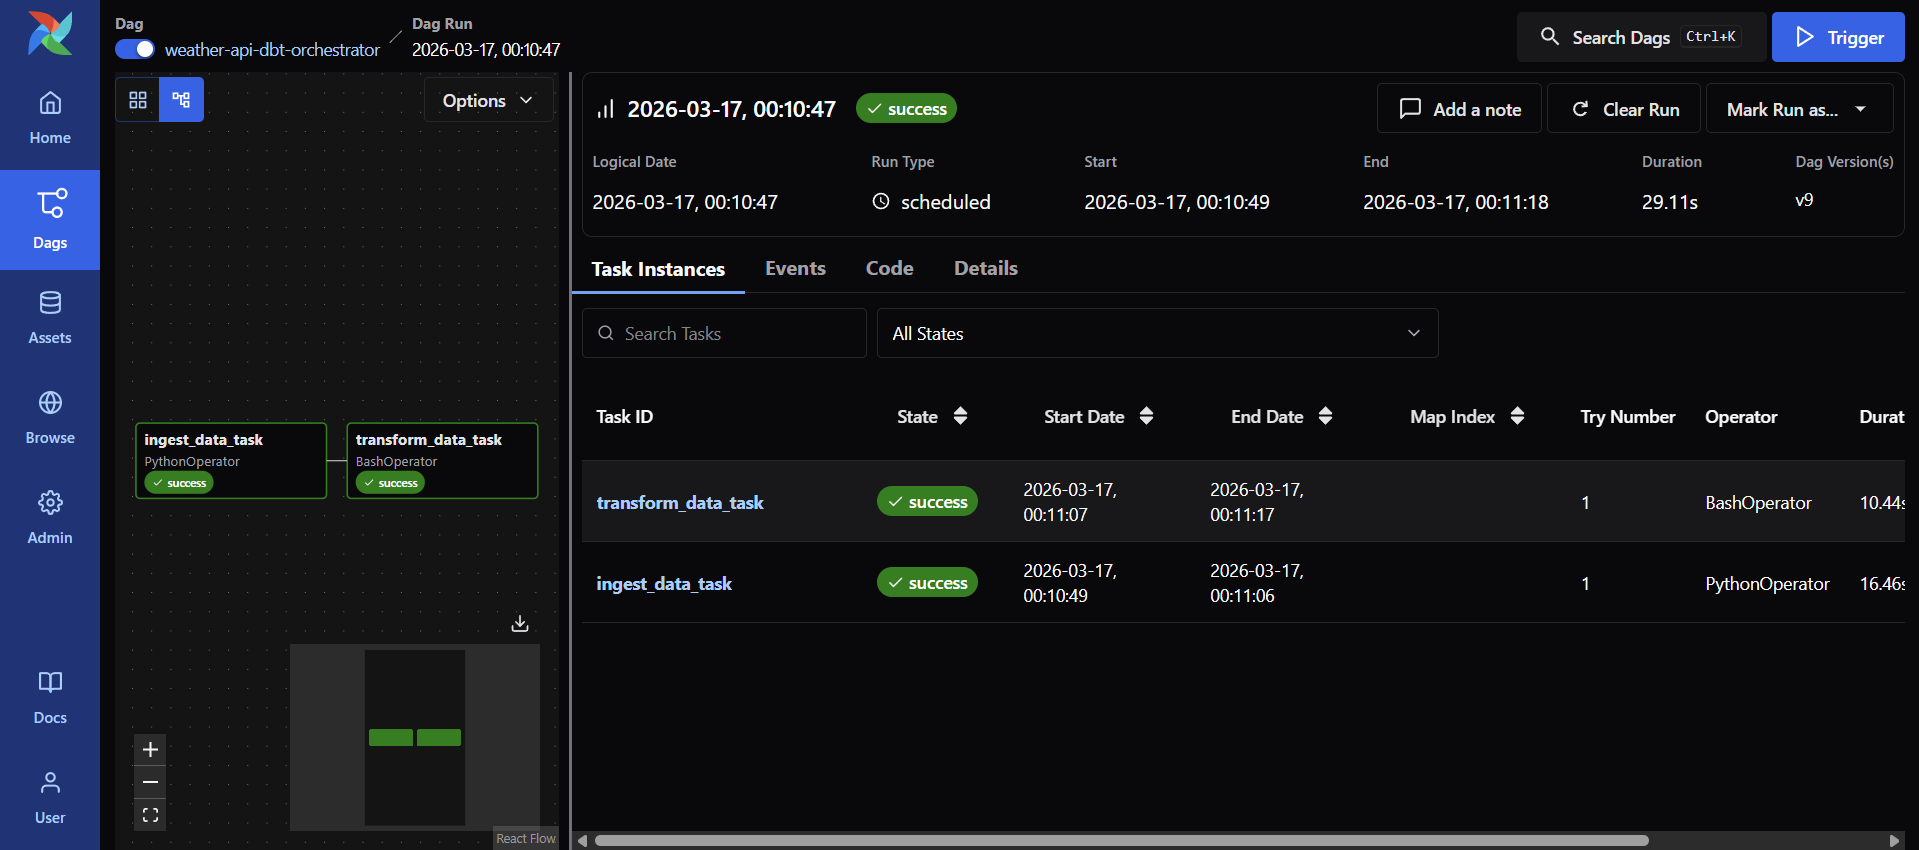
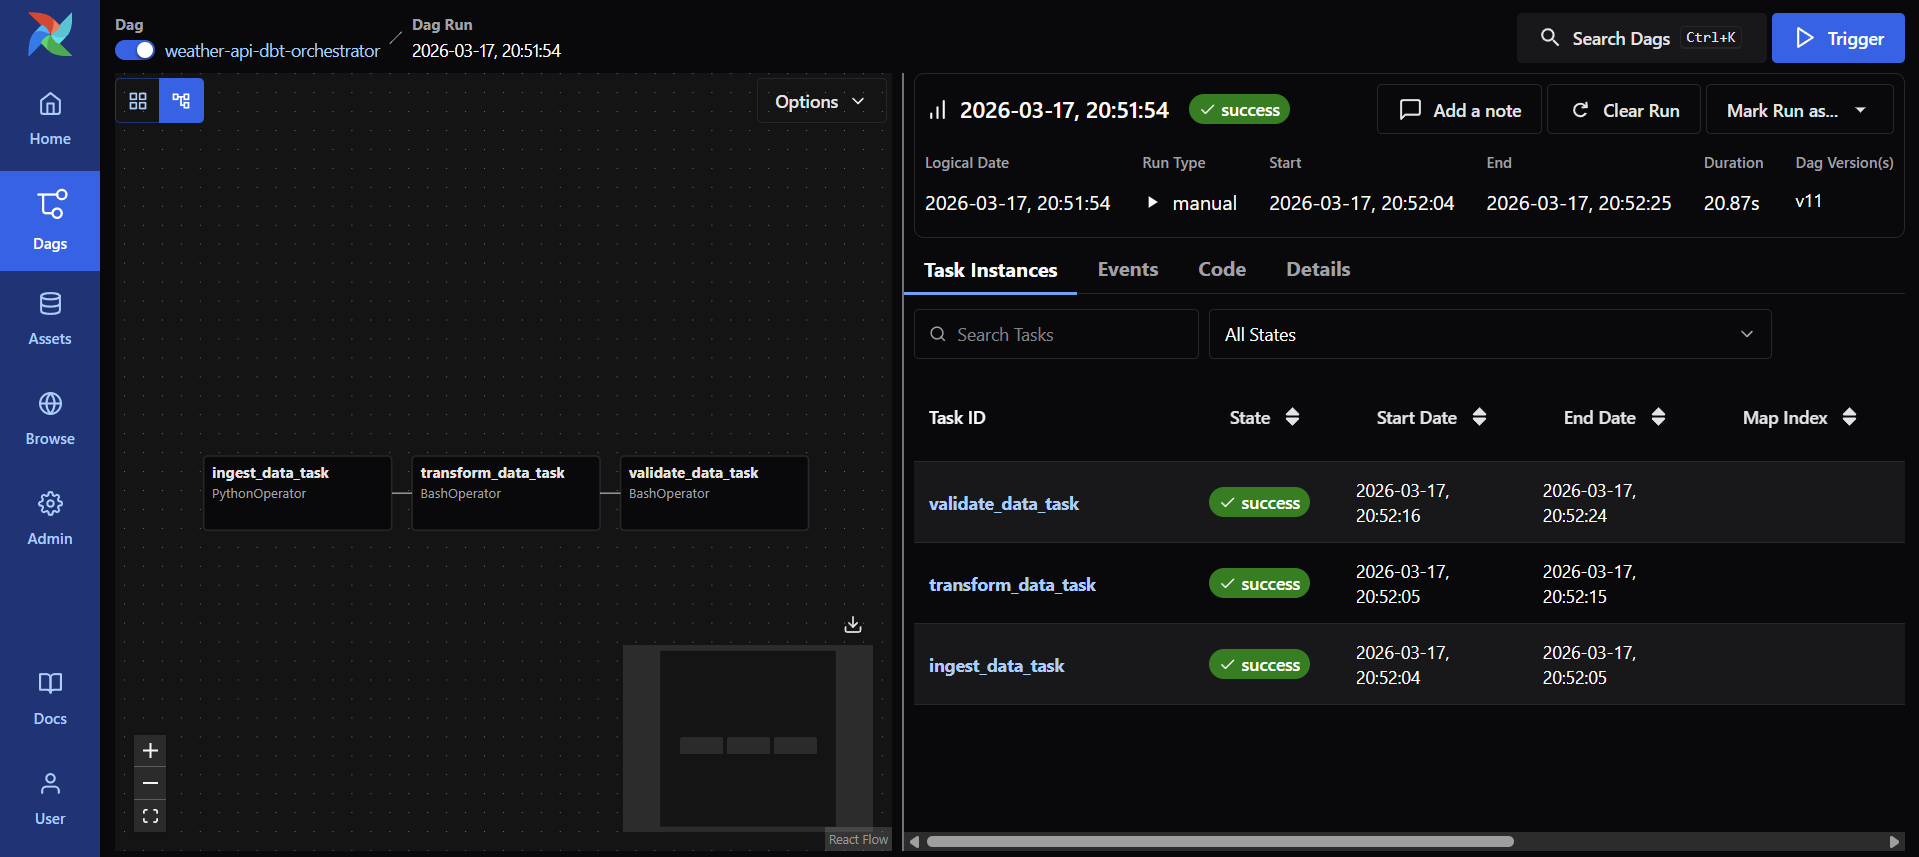
feat: dbt data quality (PASS=26 tests), null handling, 3-task pipeline + updated README

diff --git a/airflow/dags/orchestrator.py b/airflow/dags/orchestrator.py
@@ -16,10 +16,19 @@ default_args = {
     'retry_delay': timedelta(minutes=2),
 }
 
+DBT_CMD = (
+    'docker run --rm '
+    '--network data_project_my_network '
+    '-v /home/srujan/repos/data_project/dbt:/usr/app '
+    '-w /usr/app '
+    '-e DBT_PROFILES_DIR=/usr/app '
+    'ghcr.io/dbt-labs/dbt-postgres:1.9.latest '
+)
+
 dag = DAG(
     dag_id='weather-api-dbt-orchestrator',
     default_args=default_args,
-    description='A DAG to orchestrate data ingestion and dbt',
+    description='Ingest weather data, transform with dbt, validate data quality',
     start_date=datetime(2024, 4, 30),
     schedule=timedelta(minutes=5),
     catchup=False,
@@ -34,14 +43,12 @@ with dag:
 
     task2 = BashOperator(
         task_id='transform_data_task',
-        bash_command=(
-            'docker run --rm '
-            '--network data_project_my_network '
-            '-v /home/srujan/repos/data_project/dbt:/usr/app '
-            '-w /usr/app '
-            '-e DBT_PROFILES_DIR=/usr/app '
-            'ghcr.io/dbt-labs/dbt-postgres:1.9.latest run'
-        ),
+        bash_command=DBT_CMD + 'run',
     )
 
-    task1 >> task2
+    task3 = BashOperator(
+        task_id='validate_data_task',
+        bash_command=DBT_CMD + 'test',
+    )
+
+    task1 >> task2 >> task3

diff --git a/README.md b/README.md
@@ -23,10 +23,11 @@ in a single deployable project.
 
 | Stage | Tool | What it does |
 |---|---|---|
-| **Extract** | Python + Weatherstack API | Fetches live weather data |
-| **Load** | PostgreSQL | Stores raw data |
-| **Transform** | dbt | Deduplicates, aggregates, and models the data |
-| **Orchestrate** | Apache Airflow | Schedules and automates every step on a 5-min cadence |
+| **Extract** | Python + Weatherstack API | Fetches live weather data every 5 min |
+| **Load** | PostgreSQL | Stores raw ingested data |
+| **Transform** | dbt | Null handling, deduplication, aggregation across 3 models |
+| **Validate** | dbt test | 26 data quality checks (not_null, unique, accepted_values) |
+| **Orchestrate** | Apache Airflow | Schedules and automates all steps on a 5-min cadence |
 | **Report** | Apache Superset | Live auto-refreshing dashboards |
 | **Infra** | Docker + Docker Compose | Single command to run everything |
 
@@ -58,22 +59,24 @@ weather-data-automated-etl-pipeline/
 ├── api_call/
 │   ├── request_call.py          # Calls the Weatherstack API
 │   ├── insert_records.py        # Inserts data into Postgres
-│   └── requirements.txt         # Python dependencies
+│   └── requirements.txt         # Python dependencies (psycopg2-binary, requests)
 │
 ├── airflow/
 │   └── dags/
-│       └── orchestrator.py      # Airflow DAG: ingest → transform (every 5 min)
+│       └── orchestrator.py      # Airflow DAG: ingest → transform → validate (every 5 min)
 │
 ├── dbt/
 │   ├── dbt_project.yml
 │   ├── profiles.yml             # Postgres connection for dbt
 │   └── models/
 │       ├── staging/
-│       │   ├── sources.yml
-│       │   └── stg_weather_data.sql   # Deduplicates raw data
+│       │   ├── sources.yml               # Source declarations + tests on raw table
+│       │   ├── schema.yml                # Column-level tests for stg_weather_data
+│       │   └── stg_weather_data.sql      # Null handling, dedup → staging table
 │       └── mart/
-│           ├── daily_average.sql             # Avg temp + wind per city/day
-│           └── weather_analytics_reports.sql # Reporting table
+│           ├── schema.yml                        # Column-level tests for mart models
+│           ├── daily_average.sql                 # Avg temp + wind per city/day
+│           └── weather_analytics_reports.sql     # Reporting table for Superset
 │
 ├── postgres/
 │   ├── airflow_init.sql         # Creates Airflow DB + user
@@ -208,13 +211,13 @@ docker exec airflow_container cat /opt/airflow/simple_auth_manager_passwords.jso
 
 ## ✅ Pipeline in Action
 
-### Airflow — DAG Running on Schedule
+### Airflow — 3-Task DAG Running on Schedule
 
 The `weather-api-dbt-orchestrator` DAG runs automatically every 5 minutes:
 
 ![Airflow DAG List](images/airflow_dag_success1.png)
 
-Both tasks completing successfully in each run:
+All three tasks completing successfully — ingest → transform → validate:
 
 ![Airflow DAG Tasks Success](images/airflow_dag_success2.png)
 
@@ -232,21 +235,61 @@ Weather metrics (avg temperature + wind speed) updating in real time:
 Weatherstack API
       │  every 5 min (Airflow schedules)
       ▼
-ingest_data_task  (PythonOperator)
-      │  insert_records.py
+① ingest_data_task  (PythonOperator)
+      │  insert_records.py → COALESCE nulls
       ▼
- dev.raw_weather_data  (Postgres)
+  dev.raw_weather_data  (Postgres)
       │
       ▼
-transform_data_task  (BashOperator → docker run dbt)
+② transform_data_task  (BashOperator → docker run dbt run)
       │
-      ├── dev.stg_weather_data          (deduplicated staging table)
+      │  stg_weather_data: nulls coalesced, deduplicated, data_quality_flag added
+      ├── dev.stg_weather_data
       ├── dev.daily_average             (avg temp + wind per city/day)
       └── dev.weather_analytics_reports (focused reporting columns)
-                    │
-                    ▼
-         Apache Superset Dashboard
-         (auto-refreshes every 5 min)
+      │
+      ▼
+③ validate_data_task  (BashOperator → docker run dbt test)
+      │  26 tests: not_null, unique, accepted_values
+      │  ✅ PASS=26 / WARN=0 / ERROR=0
+      ▼
+  Apache Superset Dashboard
+  (auto-refreshes every 5 min)
+```
+
+---
+
+## 🧪 Data Quality
+
+This pipeline enforces data quality at every layer:
+
+### Null & Missing Value Handling (in `stg_weather_data.sql`)
+
+| Column | Null Fix Applied |
+|---|---|
+| `city` | `COALESCE(NULLIF(TRIM(city), ''), 'Unknown')` |
+| `temperature` | `COALESCE(temperature, 0)` |
+| `wind_speed` | `COALESCE(wind_speed, 0)` |
+| `weather_descriptions` | `COALESCE(NULLIF(TRIM(...), ''), 'N/A')` |
+| `time` | `COALESCE(time::text, to_char(inserted_at, 'YYYY-MM-DD HH24:MI'))` |
+
+Every row gets a `data_quality_flag` column: `'clean'` or `'fixed: <field> null'` so you can monitor data quality trends in Superset.
+
+### dbt Tests (26 total — run automatically after every `dbt run`)
+
+| Layer | Tests |
+|---|---|
+| **Source** (`raw_weather_data`) | `not_null` on 6 columns, `unique` on `id` |
+| **Staging** (`stg_weather_data`) | `not_null` on all columns, `unique` on `id`, `accepted_values` on `data_quality_flag` |
+| **Mart** (`daily_average`, `weather_analytics_reports`) | `not_null` on all columns |
+
+```bash
+# Run tests manually
+docker run --rm --network data_project_my_network \
+  -v /path/to/dbt:/usr/app -w /usr/app \
+  -e DBT_PROFILES_DIR=/usr/app \
+  ghcr.io/dbt-labs/dbt-postgres:1.9.latest test
+# Expected: PASS=26 WARN=0 ERROR=0
 ```
 
 ---
